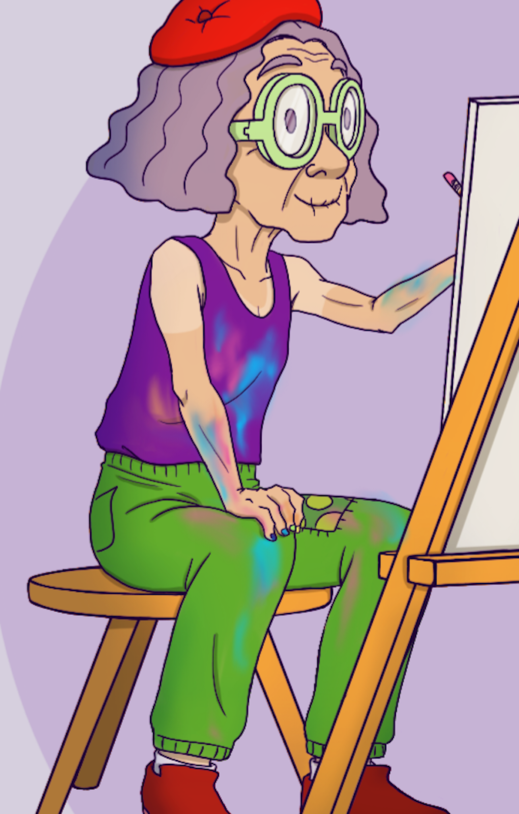
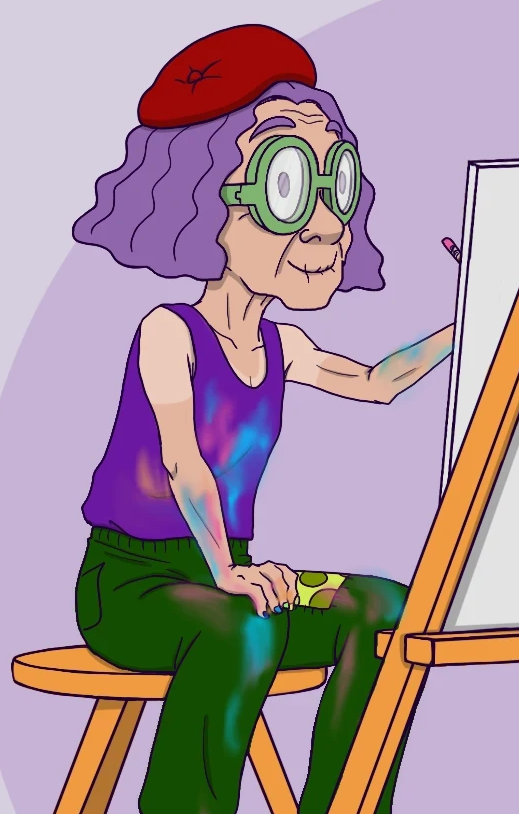
Updating images the right way

diff --git a/docs/index.html b/docs/index.html
@@ -160,16 +160,22 @@
 
                                         <ul class="post__carousel">
                                             <li>
-                                                <img src="images/concept-art/traveler-painter/silhouettes.png" alt="Traveler Painter - Silhouettes"/>
+                                                <img src="images/concept-art/traveler-painter/silhouettes.webp" alt="Traveler Painter - Silhouettes"/>
                                             </li>
                                             <li>
-                                                <img src="images/concept-art/traveler-painter/clothing.png" alt="Traveler Painter - Clothing"/>
+                                                <img src="images/concept-art/traveler-painter/clothing.webp" alt="Traveler Painter - Clothing"/>
                                             </li>
                                             <li>
-                                                <img src="images/concept-art/traveler-painter/color-schemes.png" alt="Traveler Painter - Color Schemes"/>
+                                                <img src="images/concept-art/traveler-painter/color-schemes.webp" alt="Traveler Painter - Color Schemes"/>
                                             </li>
                                             <li>
-                                                <img src="images/concept-art/traveler-painter/final-design.png" alt="Traveler Painter - Final Design"/>
+                                                <img src="images/concept-art/traveler-painter/local-values.webp" alt="Traveler Painter - Final Design"/>
+                                            </li>
+                                            <li>
+                                                <img src="images/concept-art/traveler-painter/final-design.webp" alt="Traveler Painter - Color Schemes"/>
+                                            </li>
+                                            <li>
+                                                <img src="images/concept-art/traveler-painter/props.webp" alt="Traveler Painter - Final Design"/>
                                             </li>
                                         </ul>
                                         <span class="post__close"></span>
@@ -470,7 +476,7 @@
                 <p class="description">Who Am I? How do I describe and see myself?<br>Quick summary of me, my background and what I can do.</p>
                 <div class="intro-profile-pic">
                     <div class="profile-wrapper">
-                        <img src="images/me.png" alt="Marisol Gallegos Profile Pic, yup that is me"/>
+                        <img src="images/me.jpg" alt="Marisol Gallegos Profile Pic, yup that is me"/>
                     </div>
                     <div>
                         <p>I'm a creative problem solver with drawing and digital illustration experience who's specializing in concept art, particularly character designs, coming in with a vast experience in UX/UI design and front end development of 10+ years.</p>

diff --git a/gulpfile.js b/gulpfile.js
@@ -19,11 +19,6 @@ gulp.task('browserSync', function () {
     })
 });
 
-gulp.task('watch', function () {
-    gulp.watch('app/scss/**/*.scss', ['sass']);
-    // Other watchers
-});
-
 gulp.task('watch', ['browserSync', 'sass'], function () {
     gulp.watch('app/scss/**/*.scss', ['sass']);
     // Reloads the browser whenever HTML or JS files change
@@ -62,17 +57,10 @@ gulp.task('useref', function(){
 });
 
 var imagemin = require('gulp-imagemin');
-
-gulp.task('images', function () {
-    return gulp.src('app/images/**/*.+(png|jpg|gif|svg)')
-        .pipe(imagemin())
-        .pipe(gulp.dest('docs/images'))
-});
-
 var cache = require('gulp-cache');
 
 gulp.task('images', function () {
-    return gulp.src('app/images/**/*.+(png|jpg|jpeg|gif|svg)')
+    return gulp.src('app/images/**/*.+(png|jpg|jpeg|gif|svg|webp)')
         // Caching images that ran through imagemin
         .pipe(cache(imagemin({
             interlaced: true

diff --git a/docs/css/style.css b/docs/css/style.css
@@ -780,9 +780,8 @@ footer {
   .post__wrapper {
     overflow: hidden; }
   .profile-wrapper {
-    flex-shrink: 0;
-    margin: 0;
-    width: 200px; }
+    max-width: 350px;
+    width: 70%; }
   .footer__social-link {
     max-width: 100px;
     padding: 20px; } }
@@ -799,4 +798,7 @@ footer {
     .post__more-info-content > div:first-child {
       width: 45%; }
     .post__more-info-content > div:last-child {
-      max-width: 49%; } }
+      max-width: 49%; }
+  .profile-wrapper {
+    margin: 0;
+    width: auto; } }
